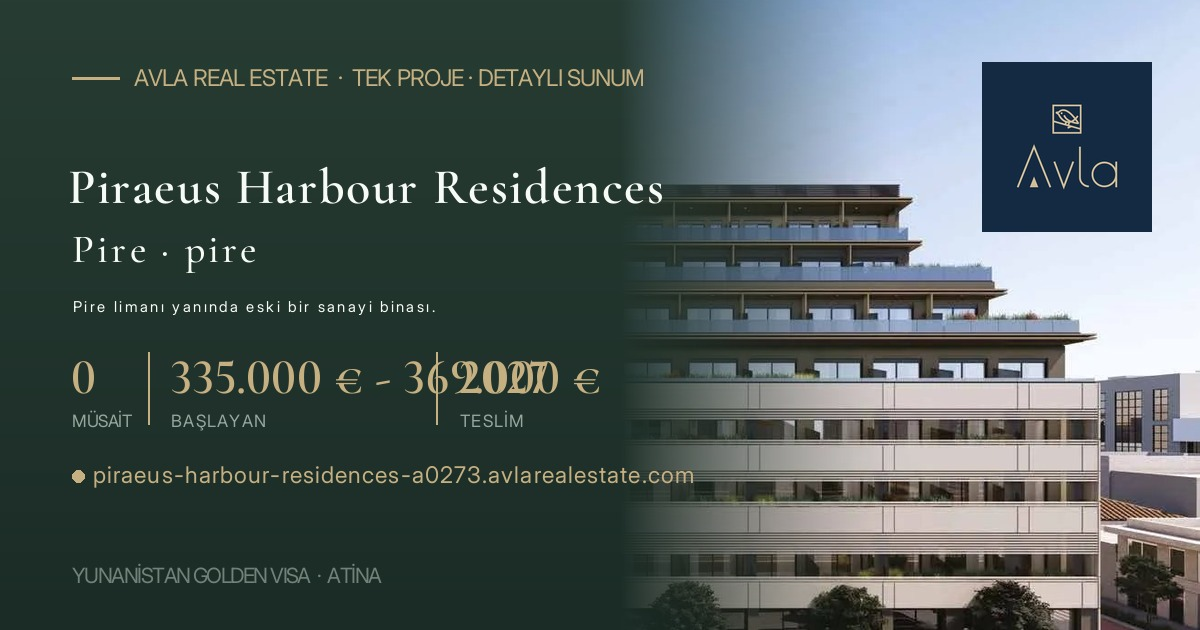
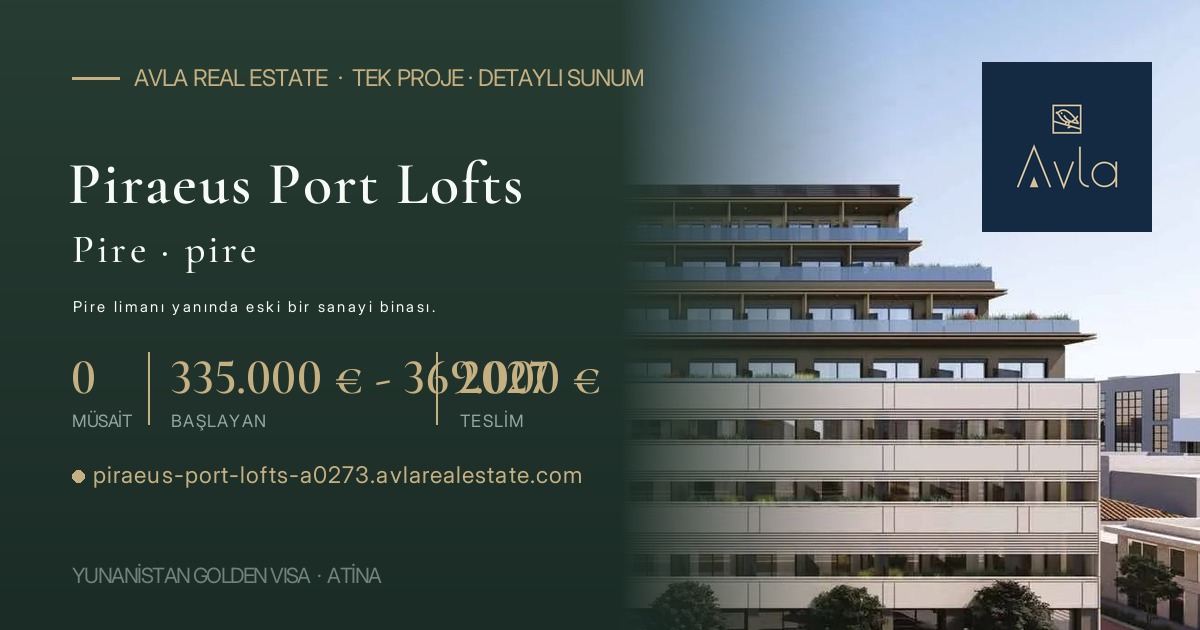
Tekil sayfalar yayında: A0273 — alan adı + master seçki bağlantısı (Sami 10.10)

Changed region(s): [[0.0617, 0.2413, 0.555, 0.3317], [0.1542, 0.7238, 0.5858, 0.7841]]

diff --git a/mulk/a0273/index.html b/mulk/a0273/index.html
@@ -4,26 +4,26 @@
 <meta charset="UTF-8">
 <meta name="viewport" content="width=device-width, initial-scale=1">
 <meta name="robots" content="noindex, nofollow">
-<title>Piraeus Harbour Residences · Pire · Avla Özel Seçki — Avla Real Estate</title>
-<meta name="description" content="Pire: Piraeus Harbour Residences — güncel fiyatlar, müsait daire listesi, planlar, bölge ve proje raporu.">
-<link rel="canonical" href="https://piraeus-harbour-residences-a0273.avlarealestate.com/">
-<link rel="alternate" hreflang="tr" href="https://piraeus-harbour-residences-a0273.avlarealestate.com/">
-<link rel="alternate" hreflang="x-default" href="https://piraeus-harbour-residences-a0273.avlarealestate.com/">
-<meta property="og:title" content="Piraeus Harbour Residences · Avla Özel Seçki">
-<meta property="og:description" content="Pire: Piraeus Harbour Residences — güncel fiyatlar, müsait daire listesi, planlar, bölge ve proje raporu.">
+<title>Piraeus Port Lofts · Pire · Avla Özel Seçki — Avla Real Estate</title>
+<meta name="description" content="Pire: Piraeus Port Lofts — güncel fiyatlar, müsait daire listesi, planlar, bölge ve proje raporu.">
+<link rel="canonical" href="https://piraeus-port-lofts-a0273.avlarealestate.com/">
+<link rel="alternate" hreflang="tr" href="https://piraeus-port-lofts-a0273.avlarealestate.com/">
+<link rel="alternate" hreflang="x-default" href="https://piraeus-port-lofts-a0273.avlarealestate.com/">
+<meta property="og:title" content="Piraeus Port Lofts · Avla Özel Seçki">
+<meta property="og:description" content="Pire: Piraeus Port Lofts — güncel fiyatlar, müsait daire listesi, planlar, bölge ve proje raporu.">
 <meta property="og:type" content="website">
-<meta property="og:url" content="https://piraeus-harbour-residences-a0273.avlarealestate.com/">
+<meta property="og:url" content="https://piraeus-port-lofts-a0273.avlarealestate.com/">
 <meta property="og:site_name" content="Avla Real Estate">
 <meta property="og:locale" content="tr_TR">
-<meta property="og:image" content="https://piraeus-harbour-residences-a0273.avlarealestate.com/og-cover-mulk-a0273-v1.jpg">
-<meta property="og:image:secure_url" content="https://piraeus-harbour-residences-a0273.avlarealestate.com/og-cover-mulk-a0273-v1.jpg">
+<meta property="og:image" content="https://piraeus-port-lofts-a0273.avlarealestate.com/og-cover-mulk-a0273-v1.jpg">
+<meta property="og:image:secure_url" content="https://piraeus-port-lofts-a0273.avlarealestate.com/og-cover-mulk-a0273-v1.jpg">
 <meta property="og:image:width" content="1200">
 <meta property="og:image:height" content="630">
-<meta property="og:image:alt" content="Avla Real Estate — Piraeus Harbour Residences">
+<meta property="og:image:alt" content="Avla Real Estate — Piraeus Port Lofts">
 <meta name="twitter:card" content="summary_large_image">
-<meta name="twitter:title" content="Piraeus Harbour Residences · Avla Özel Seçki">
+<meta name="twitter:title" content="Piraeus Port Lofts · Avla Özel Seçki">
 <meta name="twitter:description" content="Pire · pire — fiyatlar, müsaitlik, planlar ve raporlar. Avla Real Estate.">
-<meta name="twitter:image" content="https://piraeus-harbour-residences-a0273.avlarealestate.com/og-cover-mulk-a0273-v1.jpg">
+<meta name="twitter:image" content="https://piraeus-port-lofts-a0273.avlarealestate.com/og-cover-mulk-a0273-v1.jpg">
 <link rel="icon" type="image/png" sizes="32x32" href="favicon-32.png">
 <link rel="icon" type="image/png" sizes="192x192" href="favicon-192.png">
 <link rel="apple-touch-icon" href="apple-touch-icon.png">
@@ -1072,11 +1072,11 @@ j=d.createElement(s),dl=l!='dataLayer'?'&l='+l:'';j.async=true;j.src=
 <body>
 <noscript><iframe src="https://www.googletagmanager.com/ns.html?id=GTM-T4JQ2XVT" height="0" width="0" style="display:none;visibility:hidden"></iframe></noscript>
 <div class="hero">
-  <img src="img/g-A0273-1.webp" alt="Piraeus Harbour Residences" fetchpriority="high">
+  <img src="img/g-A0273-1.webp" alt="Piraeus Port Lofts" fetchpriority="high">
   <div class="hin"><div class="wrap">
     <a class="hlogo" href="https://www.avlarealestate.com/property-status/golden-visa" target="_blank" rel="noopener" title="Avla Golden Visa"><img src="img/avla-kare-lacivert-altin-kucuk-10-1080.png" alt="Avla Real Estate"></a>
     <div class="eyebrow">Avla Real Estate · Özel Seçki</div>
-    <h1>Piraeus Harbour Residences</h1>
+    <h1>Piraeus Port Lofts</h1>
     <div class="sub">Pire limanı yanında eski bir sanayi binası.</div>
     <div class="hstats">
       <div><div class="n">—</div><div class="l">Müsait daire</div></div>
@@ -1092,7 +1092,7 @@ j=d.createElement(s),dl=l!='dataLayer'?'&l='+l:'';j.async=true;j.src=
     <a href="#gv">Golden Visa</a>
     <a href="#harita">Harita</a>
     
-    <a href="#a0273"><i style="background:#6a4a8a"></i>Pire &middot; proje</a>
+    <a href="#a0273"><i style="background:#8a6a4a"></i>Pire &middot; proje</a>
     <a href="#guvence">Güvence</a>
     <a href="#ozet">Özet</a>
     <a href="#protokol">Protokol</a>
@@ -1102,12 +1102,12 @@ j=d.createElement(s),dl=l!='dataLayer'?'&l='+l:'';j.async=true;j.src=
 <div class="wrap">
 <section id="giris">
   <div class="eyebrow">Seçki Notu</div>
-  <h2>Piraeus Harbour Residences — tek sayfada</h2>
+  <h2>Piraeus Port Lofts — tek sayfada</h2>
   <div class="card">
-    <p>Bu sayfa, Pire · pire bölgesindeki <b>Piraeus Harbour Residences</b> için hazırlanmış Avla Özel Seçki'dir. Projeyle ilgili her şey tek sayfada: güncel fiyatlar ve <b>0 müsait dairenin</b> listesi, daire ve kat planları, bölge raporu ve proje raporu.</p>
+    <p>Bu sayfa, Pire · pire bölgesindeki <b>Piraeus Port Lofts</b> için hazırlanmış Avla Özel Seçki'dir. Projeyle ilgili her şey tek sayfada: güncel fiyatlar ve <b>0 müsait dairenin</b> listesi, daire ve kat planları, bölge raporu ve proje raporu.</p>
     <p><b>Sayfanın yapısı:</b> Önce Golden Visa çerçevesi ve haritada semt; ardından daire tiplerini yan yana koyan karşılaştırma ve proje bölümü — künye, görseller, fiyat tablosu ve raporlar. Her bölümde <b>kendi çekincelerimiz</b> de yazılı. İlan sayfası, bölge raporu ve yatırım fizibilitesi bağlantıları proje kartının altındadır.</p>
     <div class="uyari"><b>Müsaitlik ve fiyat:</b> Rakamlar geliştiricilerden gelen en güncel listelere dayanır (envanter teyidi 29 Eylül 2026). Müsaitlik hızla değişir; bağlayıcı karardan önce ilgili dairenin durumu yazılı teyit edilir.</div>
-    <p style="margin-top:18px"><a class="b1" style="padding:11px 24px;font-size:13px" href="https://wa.me/905322822657?text=Merhaba%2C%20Piraeus%20Harbour%20Residences%20se%C3%A7kisini%20inceledim." target="_blank" rel="noopener">Bize WhatsApp'tan yazın</a> <a class="b2" style="padding:11px 24px;font-size:13px;color:var(--navy);border-color:var(--cizgi)" href="tel:+905322822657">+90 532 282 26 57</a></p>
+    <p style="margin-top:18px"><a class="b1" style="padding:11px 24px;font-size:13px" href="https://wa.me/905322822657?text=Merhaba%2C%20Piraeus%20Port%20Lofts%20se%C3%A7kisini%20inceledim." target="_blank" rel="noopener">Bize WhatsApp'tan yazın</a> <a class="b2" style="padding:11px 24px;font-size:13px;color:var(--navy);border-color:var(--cizgi)" href="tel:+905322822657">+90 532 282 26 57</a></p>
   <p class="kucuk" style="margin-top:14px"><a href="https://gv.selection.avlarealestate.com" target="_blank" rel="noopener" style="color:var(--navy);font-weight:600">Master Seçki — tüm portföy</a> · <a href="https://www.avlarealestate.com/property-status/golden-visa" target="_blank" rel="noopener" style="color:var(--navy);font-weight:600">Tüm ilanlarımız</a></p>
   </div>
   <div class="gv">
@@ -1141,7 +1141,7 @@ j=d.createElement(s),dl=l!='dataLayer'?'&l='+l:'';j.async=true;j.src=
   <p class="kucuk" style="margin-top:8px">Konum <b>semt düzeyinde bir daire halinde</b> gösterilmektedir; kesin adres Dijital Yer Gösterme Protokolü'nün imzalanmasıyla paylaşılır.</p>
   <div id="avla-map"></div>
   <div class="mlegend">
-    <span><i style="background:#6a4a8a"></i>Piraeus Harbour Residences</span>
+    <span><i style="background:#8a6a4a"></i>Piraeus Port Lofts</span>
   </div>
 </section>
 
@@ -1149,7 +1149,7 @@ j=d.createElement(s),dl=l!='dataLayer'?'&l='+l:'';j.async=true;j.src=
 
 <section id="a0273">
   <div class="eyebrow">Proje 1 · Pire · pire</div>
-  <h2><span class="pno" style="color:#6a4a8a">1</span>Piraeus Harbour Residences</h2>
+  <h2><span class="pno" style="color:#8a6a4a">1</span>Piraeus Port Lofts</h2>
   <div class="card">
     <p>Pire limanı yanında eski bir sanayi binası; çatı havuzu, spor salonu, ortak çalışma salonu ve sinema odasıyla 158 konut olarak yeniden geliştiriliyor. Son konutlar: 60–63 m² bahçeli 2+1 dubleksler ve 15 m² balkonlu 1+1.</p>
     <p>Teslim 2027&#x27;nin son çeyreği. €335.000&#x27;dan.</p>
@@ -1184,7 +1184,7 @@ j=d.createElement(s),dl=l!='dataLayer'?'&l='+l:'';j.async=true;j.src=
   </div>
   <div class="tblnot">Görseller geliştiricinin tanıtım çalışmasından; bir bölümü bilgisayar ortamında üretilmiş temsilî görseller olabilir.</div>
   <details class="rapor"><summary>Konum</summary><div class="rbody">
-    <div class="pmap" id="pmap-a0273" data-lat="37.95" data-lng="23.64" data-r="250" data-renk="#6a4a8a"></div>
+    <div class="pmap" id="pmap-a0273" data-lat="37.95" data-lng="23.64" data-r="250" data-renk="#8a6a4a"></div>
     <div class="tblnot pmap-not">Konum <b>semt düzeyinde</b> gösterilmektedir — Piraeus · pire.</div>
     <div class="tblnot">Daire bazında fiyat listesi geliştiriciden istendi; liste geldiğinde bu bölüm dolar.</div>
     <button class="dkapat" onclick="dKapat(this)" aria-label="Bölümü kapat"><i>−</i> Kapat</button>
@@ -1209,7 +1209,7 @@ j=d.createElement(s),dl=l!='dataLayer'?'&l='+l:'';j.async=true;j.src=
   <div class="tbl"><table>
     <thead><tr><th>#</th><th>Proje</th><th>Semt</th><th>Teslim</th><th>Müsait</th><th>Fiyat aralığı</th><th>Net m² aralığı</th><th>Brüt m² aralığı</th><th>€ / m² net (en düşük)</th><th>€ / m² brüt (en düşük)</th></tr></thead>
     <tbody>
-      <tr><td>1</td><td><b><a href="#a0273" style="color:inherit">Piraeus Harbour Residences</a></b></td><td>Pire</td><td>2027</td><td>0 daire müsait</td><td class="f"><b>335.000 € - 369.000 €</b></td><td> m²</td><td> m²</td><td>—</td><td>—</td></tr>
+      <tr><td>1</td><td><b><a href="#a0273" style="color:inherit">Piraeus Port Lofts</a></b></td><td>Pire</td><td>2027</td><td>0 daire müsait</td><td class="f"><b>335.000 € - 369.000 €</b></td><td> m²</td><td> m²</td><td>—</td><td>—</td></tr>
     </tbody>
   </table></div>
   <div class="card" style="margin-top:22px">
@@ -1458,7 +1458,7 @@ function fDaha(b){var k=b.previousElementSibling;
       <div class="sm-mulk"><b>Bu sayfanın kapsadığı mülk</b><span class="sm-ufak">Aşağıdaki referans kodları Avla’nın iç dosya numaralarıdır; sözleşmenin her mülkü şüpheye yer bırakmadan tanımlaması için burada gösterilmektedir.</span></div>
       <div class="tbl"><table>
         <thead><tr><th>Ref</th><th>Mülk</th><th>Semt</th><th>Tip</th><th>Alan</th><th>Fiyat</th><th>Hizmet bedeli</th></tr></thead>
-        <tbody><tr><td>A0273</td><td>Piraeus Harbour Residences</td><td>Pire · pire</td><td></td><td> m² net</td><td>335.000 € - 369.000 €</td><td><span class='var'>%0</span></td></tr></tbody>
+        <tbody><tr><td>A0273</td><td>Piraeus Port Lofts</td><td>Pire · pire</td><td></td><td> m² net</td><td>335.000 € - 369.000 €</td><td><span class='var'>%0</span></td></tr></tbody>
       </table></div>
       <div class="sm-ufak">Bu sayfadaki mülkte hizmet bedeli <b>%0</b>'dır. Fiyatlar ilan fiyatlarıdır ve bağlayıcı teklif değildir; belirli bir evin fiyatı ve müsaitliği teklif aşamasında yazılı olarak teyit edilir.</div>
       <h5>Protokol maddeleri</h5>
@@ -1501,14 +1501,14 @@ function fDaha(b){var k=b.previousElementSibling;
   k.classList.toggle('acik');
   b.textContent=k.classList.contains('acik')?b.dataset.az:b.dataset.cok;}
 </script>
-<script src="https://hub.avlarealestate.com/iz.js" data-sayfa="mulk-a0273" data-genel="1" data-arsiv="blob" data-kapak="parsomen" data-eyebrow="Avla Özel Seçki" data-baslik="Piraeus Harbour Residences" data-foto="img/kapak.jpg" data-logo="img/avla-kare-lacivert-altin-kucuk-10-1080.png" data-kredi="Pire · Görsel: proje tanıtım çalışması" data-lang="tr" data-p2="Pire · pire — güncel fiyatlar, &lt;b&gt;müsait daire listesi&lt;/b&gt;, planlar, bölge ve proje raporu; çekincelerimiz saklanmadan." defer></script>
+<script src="https://hub.avlarealestate.com/iz.js" data-sayfa="mulk-a0273" data-genel="1" data-arsiv="blob" data-kapak="parsomen" data-eyebrow="Avla Özel Seçki" data-baslik="Piraeus Port Lofts" data-foto="img/kapak.jpg" data-logo="img/avla-kare-lacivert-altin-kucuk-10-1080.png" data-kredi="Pire · Görsel: proje tanıtım çalışması" data-lang="tr" data-p2="Pire · pire — güncel fiyatlar, &lt;b&gt;müsait daire listesi&lt;/b&gt;, planlar, bölge ve proje raporu; çekincelerimiz saklanmadan." defer></script>
 <script>
 
 </script>
 <script>
 
 var bolgeler=[
-      {ad:'Piraeus Harbour Residences',semt:'Pire · pire',lat:37.95,lng:23.64,r:300,renk:'#6a4a8a'}
+      {ad:'Piraeus Port Lofts',semt:'Pire · pire',lat:37.95,lng:23.64,r:300,renk:'#8a6a4a'}
     ];
 
 /* ---- harita: GOOGLE MAPS (Sami 23.09.2026) — semt çemberi, pin YOK, tam ekran açık ---- */
@@ -1654,7 +1654,7 @@ function dKapat(b){var d=b.closest('details');if(!d)return;var once=d.getBoundin
       <span class="pk-n"><div><span class="v">149</span><span class="l">İLAN</span></div><i></i><div><span class="v">64</span><span class="l">SEMT</span></div><i></i><div><span class="v">€100K–1,7M</span><span class="l">FİYAT</span></div></span>
       <span class="pk-g">İlanlara gidin<span aria-hidden="true">&rarr;</span></span>
     </a>
-    <a class="pk" style="--pk-bg:url('img/harita-doku.jpg'),linear-gradient(135deg,#132a44 0%,#0f2136 100%)" href="https://19-eylul.avlarealestate.com/harita.html?geri=https%3A%2F%2Fpiraeus-harbour-residences-a0273.avlarealestate.com%2F&geriad=Se%C3%A7kiye%20d%C3%B6n" target="_blank" rel="noopener">
+    <a class="pk" style="--pk-bg:url('img/harita-doku.jpg'),linear-gradient(135deg,#132a44 0%,#0f2136 100%)" href="https://19-eylul.avlarealestate.com/harita.html?geri=https%3A%2F%2Fpiraeus-port-lofts-a0273.avlarealestate.com%2F&geriad=Se%C3%A7kiye%20d%C3%B6n" target="_blank" rel="noopener">
       <span class="pk-k">Portföy Haritası</span>
       <span class="pk-t">Harita</span>
       <span class="pk-s">Tüm portföy, <i>semt semt</i></span>
@@ -1742,7 +1742,7 @@ function dKapat(b){var d=b.closest('details');if(!d)return;var once=d.getBoundin
 </section>
 <section class="sec sec-alt" id="kayit">
   <div class="wrap">
-    <div class="kacc-bar"><div class="kacc-t"><div class="k">Kayıt</div><h3>Sistemimize kayıt olun <em>ya da</em> bir arkadaşınıza yollayın</h3></div><div class="kacc-btns"><button class="btn btn-o" type="button" id="kacc-ac" aria-expanded="false" aria-controls="kacc-panel" data-ac="Kayıt formunu aç ↓" data-ka="Formu kapat ↑">Kayıt formunu aç ↓</button><a class="btn btn-o" href="https://wa.me/?text=Avla%20Real%20Estate%20%E2%80%94%20Yunanistan%20Golden%20Visa%20se%C3%A7kisi%3A%20https%3A%2F%2Fpiraeus-harbour-residences-a0273.avlarealestate.com%2F" target="_blank" rel="noopener">Arkadaşınıza gönderin</a></div></div>
+    <div class="kacc-bar"><div class="kacc-t"><div class="k">Kayıt</div><h3>Sistemimize kayıt olun <em>ya da</em> bir arkadaşınıza yollayın</h3></div><div class="kacc-btns"><button class="btn btn-o" type="button" id="kacc-ac" aria-expanded="false" aria-controls="kacc-panel" data-ac="Kayıt formunu aç ↓" data-ka="Formu kapat ↑">Kayıt formunu aç ↓</button><a class="btn btn-o" href="https://wa.me/?text=Avla%20Real%20Estate%20%E2%80%94%20Yunanistan%20Golden%20Visa%20se%C3%A7kisi%3A%20https%3A%2F%2Fpiraeus-port-lofts-a0273.avlarealestate.com%2F" target="_blank" rel="noopener">Arkadaşınıza gönderin</a></div></div>
     <div class="kacc-panel" id="kacc-panel" hidden>
     <div class="fwrap">
       <div class="fside">
@@ -1820,11 +1820,11 @@ function dKapat(b){var d=b.closest('details');if(!d)return;var once=d.getBoundin
       <p>Haritadaki ilanlar portföyümüzün güncel hâlidir; liste ilan sitemizle her gün iki kez eşitlenir. Fiyat, bölge, ilçe ve hazır filtrelerle daraltabilir, her ilanın fotoğraflarını ve künyesini açabilirsiniz.</p>
     </div>
     <div class="hbox">
-      <div class="mfs"><iframe src="https://19-eylul.avlarealestate.com/harita.html?gomulu=2&geri=https%3A%2F%2Fpiraeus-harbour-residences-a0273.avlarealestate.com%2F&geriad=Se%C3%A7kiye%20d%C3%B6n" title="Avla portföy haritası" loading="lazy"></iframe><button class="mfs-dug" type="button"></button></div>
+      <div class="mfs"><iframe src="https://19-eylul.avlarealestate.com/harita.html?gomulu=2&geri=https%3A%2F%2Fpiraeus-port-lofts-a0273.avlarealestate.com%2F&geriad=Se%C3%A7kiye%20d%C3%B6n" title="Avla portföy haritası" loading="lazy"></iframe><button class="mfs-dug" type="button"></button></div>
     </div>
     <div class="hnot">
       <p><b>Çemberler semt gösterir, bina değil.</b> Mülklerin nokta adresini yayımlamıyoruz; konumu semt çemberiyle veriyoruz. Daire bazlı liste ve tam konum, görüşmede dosyanızla birlikte açılır.</p>
-      <a class="btn btn-o" href="https://19-eylul.avlarealestate.com/harita.html?geri=https%3A%2F%2Fpiraeus-harbour-residences-a0273.avlarealestate.com%2F&geriad=Se%C3%A7kiye%20d%C3%B6n" target="_blank" rel="noopener">Haritayı tam ekran aç →</a>
+      <a class="btn btn-o" href="https://19-eylul.avlarealestate.com/harita.html?geri=https%3A%2F%2Fpiraeus-port-lofts-a0273.avlarealestate.com%2F&geriad=Se%C3%A7kiye%20d%C3%B6n" target="_blank" rel="noopener">Haritayı tam ekran aç →</a>
     </div>
   </div>
 </section>
